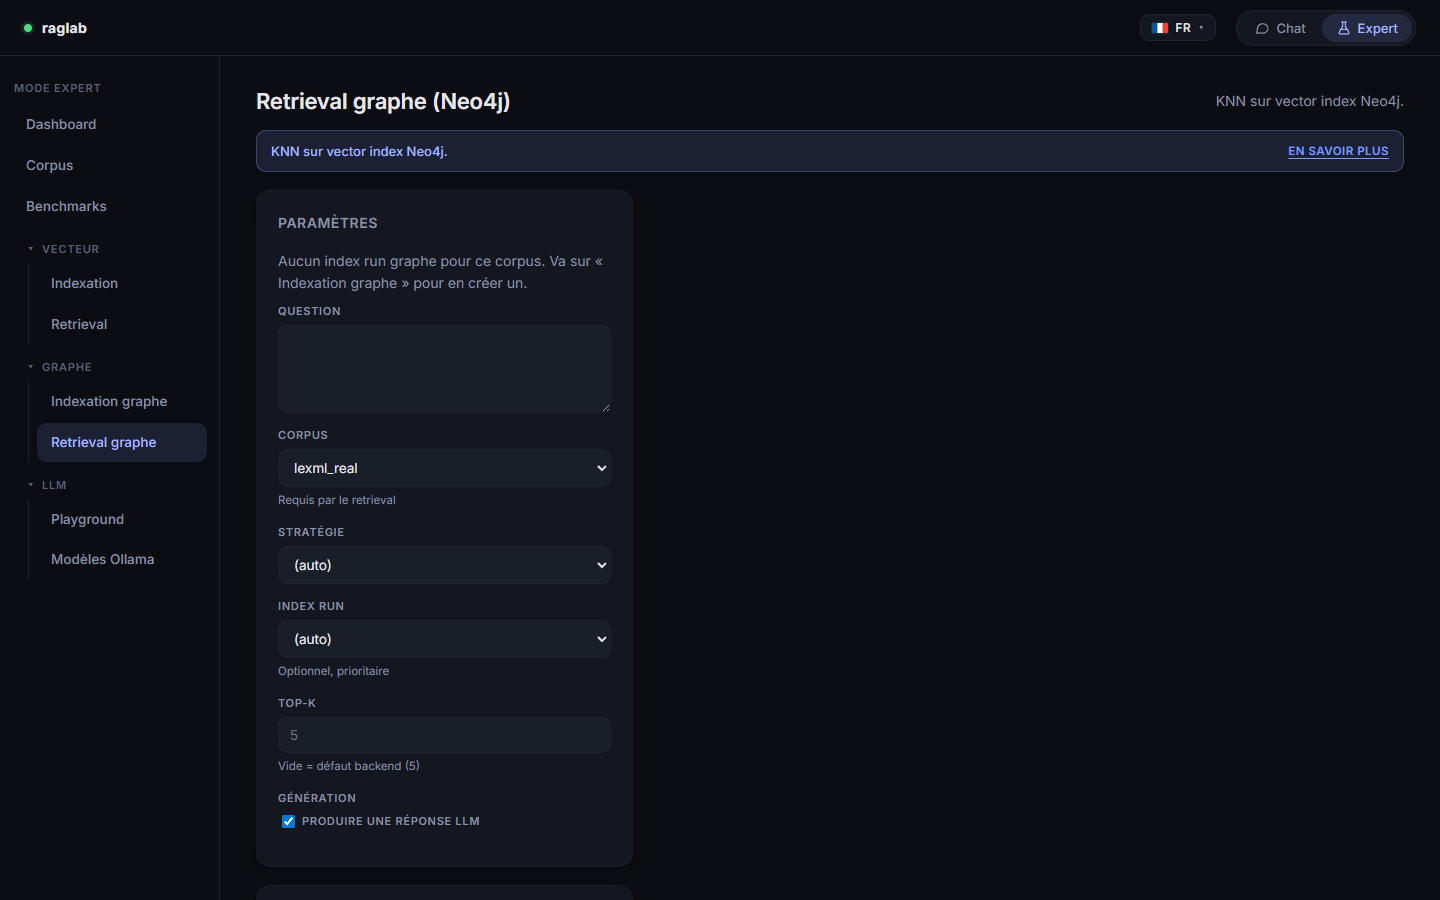
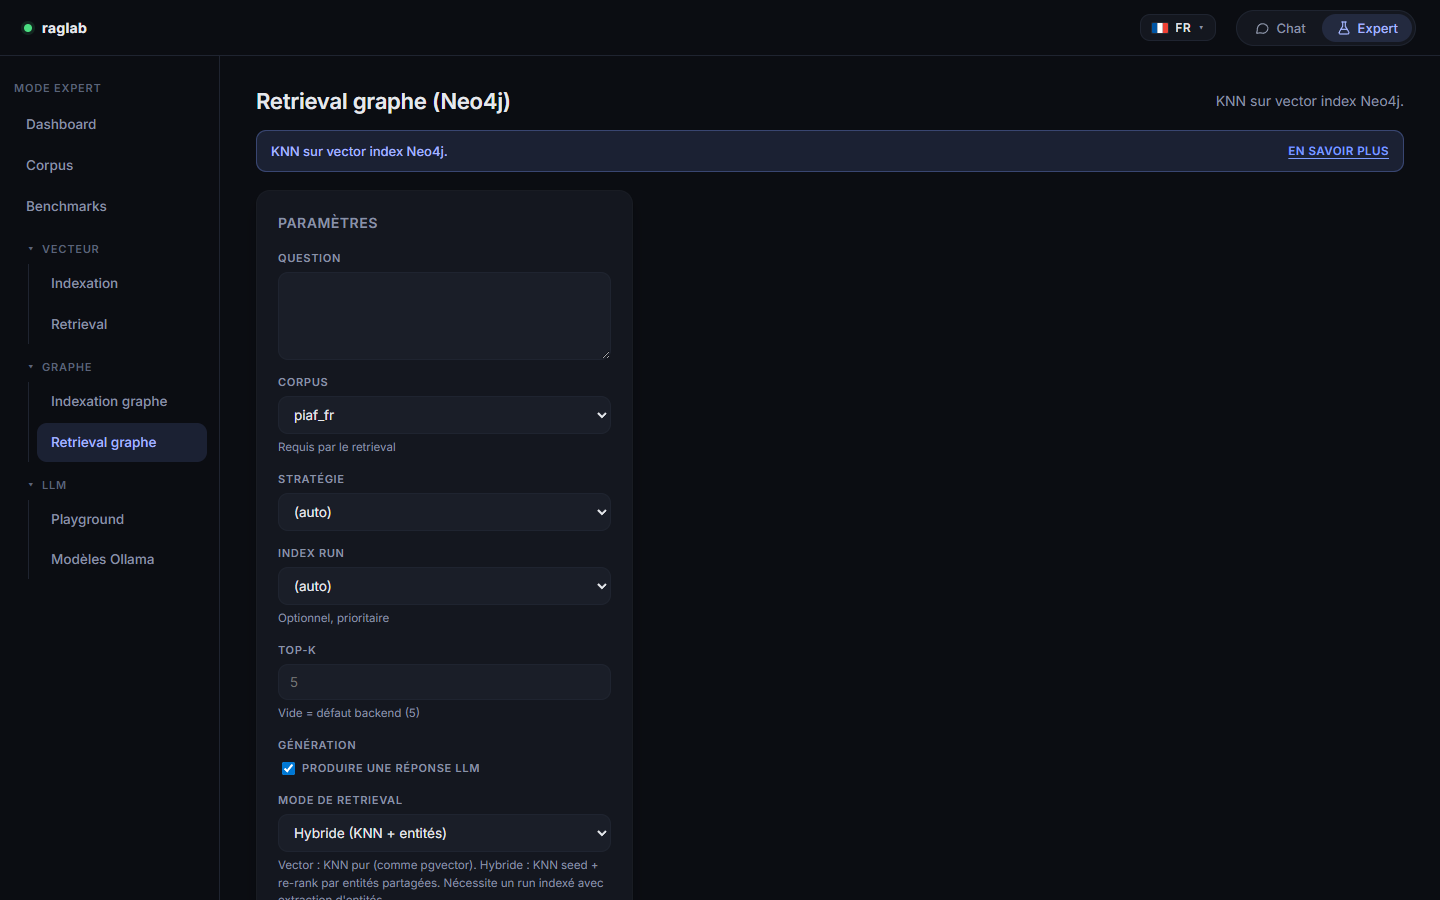
Mark 8.2.2 shipped in roadmap and snap hybrid screenshot
Roadmap updates the hybrid retrieval sub-phase from pending to
delivered with the design notes (scoring formula, seed_top_n, fetch
inflation rationale). scripts/snap-screenshots.mjs picks piaf_fr and
flips the mode to hybrid before snapping /expert/graph/query so the
screenshot shows the new Mode de retrieval dropdown.

Changed region(s): [[0.1875, 0.4044, 0.4062, 1.0], [0.1875, 0.28, 0.4062, 0.3733]]

diff --git a/docs/roadmap.md b/docs/roadmap.md
@@ -113,11 +113,14 @@ La roadmap ci-dessous reflète l'ordre réel de livraison. Les phases 0 à 5 son
 - UI Indexation graphe : checkbox « Extraire les entités » + dropdown moteur (LLM / spaCy)
 - smoke test sur piaf_fr : 56 entités typées extraites sur 6 chunks avec le LLM (19 LOCATION, 9 ORGANIZATION, 8 PRODUCT, 8 PERSON, 5 EVENT, 4 MISC, 1 DATE)
 
-**8.2.2 — Retrieval hybride (à venir)**
+**8.2.2 — Retrieval hybride ✅ (livré)**
 
-- mode retrieval hybride : seed KNN → expansion `k`-hops via `[:MENTIONS]` → re-rank
-- option de filtre par type d'entité (ex. toutes les mentions de Personne uniquement)
-- page dédiée ou extension de Retrieval graphe
+- `Neo4jGraphStore.hybrid_search` : KNN sur-fetch (top_k × 3 candidats), collecte les entités mentionnées par chaque candidat, re-rank avec `final_score = (1 - entity_weight) * vector_score + entity_weight * bridge_score` où `bridge_score` = proportion d'entités partagées avec les top-N seeds.
+- `GraphQueryService.query(mode="vector"|"hybrid", seed_top_n, entity_weight)` dispatche. Le mode hybride refuse un run non-indexé avec entités (erreur claire).
+- `QueryRequest` accepte `mode` + `seed_top_n` + `entity_weight`. L'endpoint `/api/query` (pgvector) ignore ces champs.
+- UI Retrieval graphe : dropdown mode, slider `entity_weight` (0-1), input `seed_top_n`. Paramètres hybrides apparaissent seulement quand mode = hybride.
+- Le vector index Neo4j est global aux runs de même dimension : on sur-fetch (×5 sans filtre, ×15 avec filtre) avant de filtrer par `index_run_id` pour ne pas perdre trop de candidats côté client.
+- Restera : filtre par type d'entité (ex. uniquement mentions PERSON), visualisation du sous-graphe retourné.
 
 **8.2.3 — Filtres metadata (à venir)**
 
